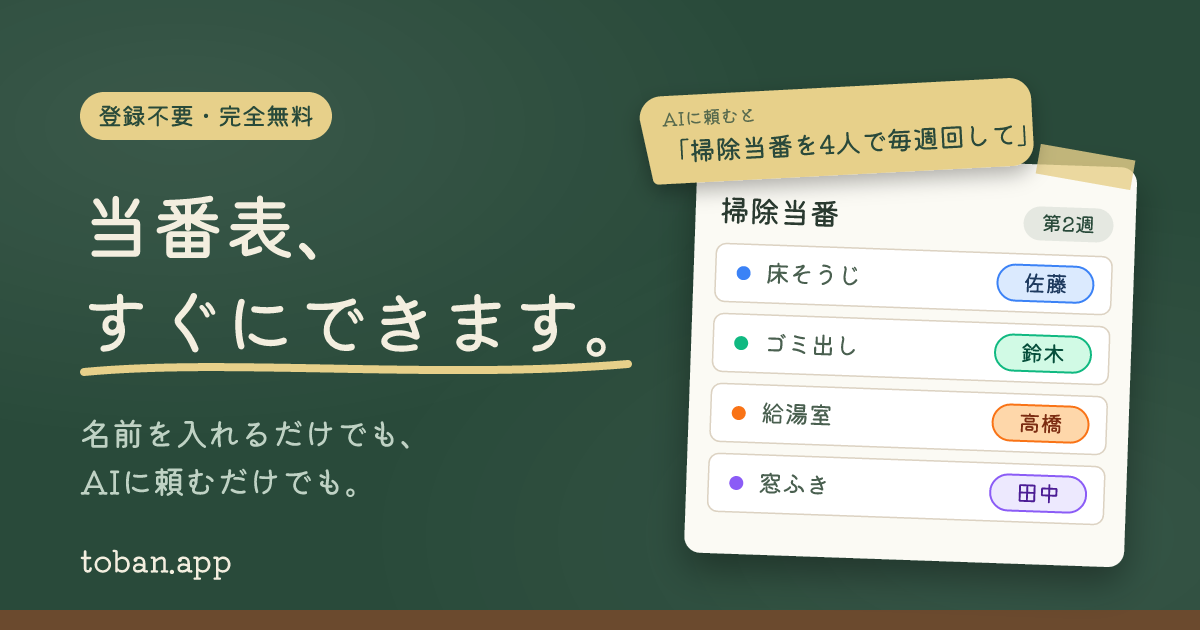
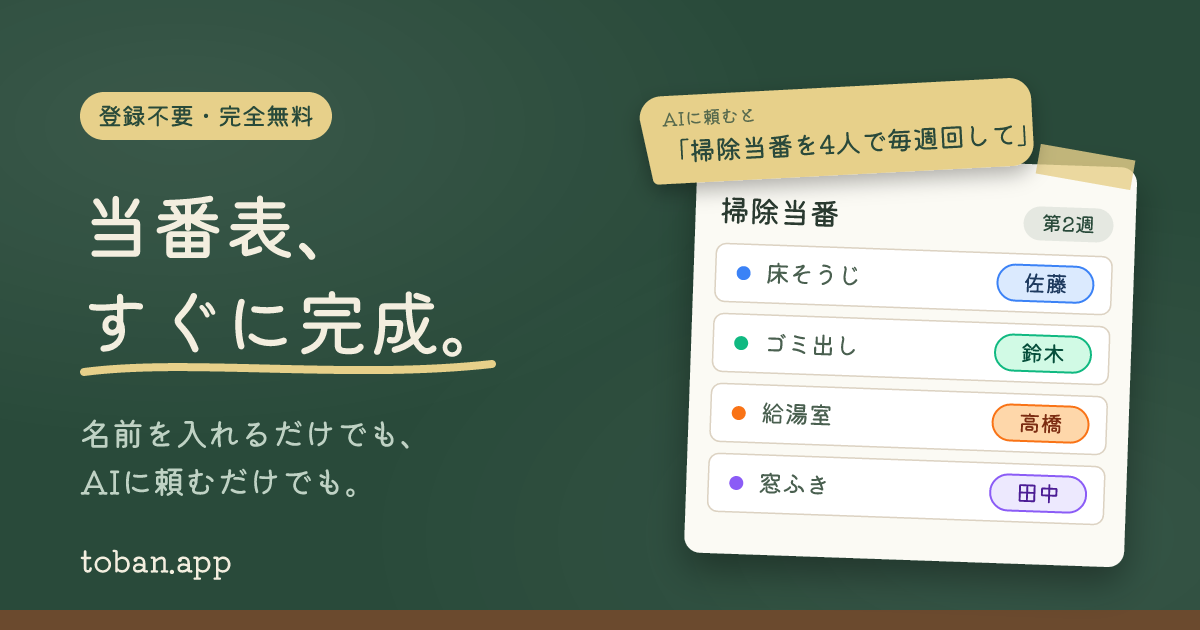
feat(og): use 「当番表、すぐに完成。」 as the headline

Changed region(s): [[0.185, 0.4524, 0.5242, 0.6032], [0.0925, 0.573, 0.1542, 0.6032]]

diff --git a/client/src/i18n/locales/ja.ts b/client/src/i18n/locales/ja.ts
@@ -78,7 +78,7 @@ export const ja = {
   // ランディングページ
   "lp.docTitle": SITE_TITLE,
   "lp.shareText":
-    "当番表、すぐにできます。名前を入れるだけでも、AIに頼むだけでも。無料の当番表アプリです。",
+    "当番表、すぐに完成。名前を入れるだけでも、AIに頼むだけでも。無料の当番表アプリです。",
   "lp.shareTitle": "toban｜当番表アプリ",
   "lp.shareToban": "tobanを共有する",
   "lp.shareMenuClose": "共有メニューを閉じる",
@@ -87,7 +87,7 @@ export const ja = {
   "lp.copyFailed": "コピーに失敗しました",
   "lp.createSchedule": "当番表を作る",
   "lp.heroTitleA": "当番表、",
-  "lp.heroTitleB": "すぐにできます。",
+  "lp.heroTitleB": "すぐに完成。",
   "lp.heroSubA": "名前を入れるだけでも、AIに頼むだけでも。",
   "lp.heroSubB": "無料で作って、印刷やLINEで共有できます。",
   "lp.featuresHeading": "tobanの特徴",
